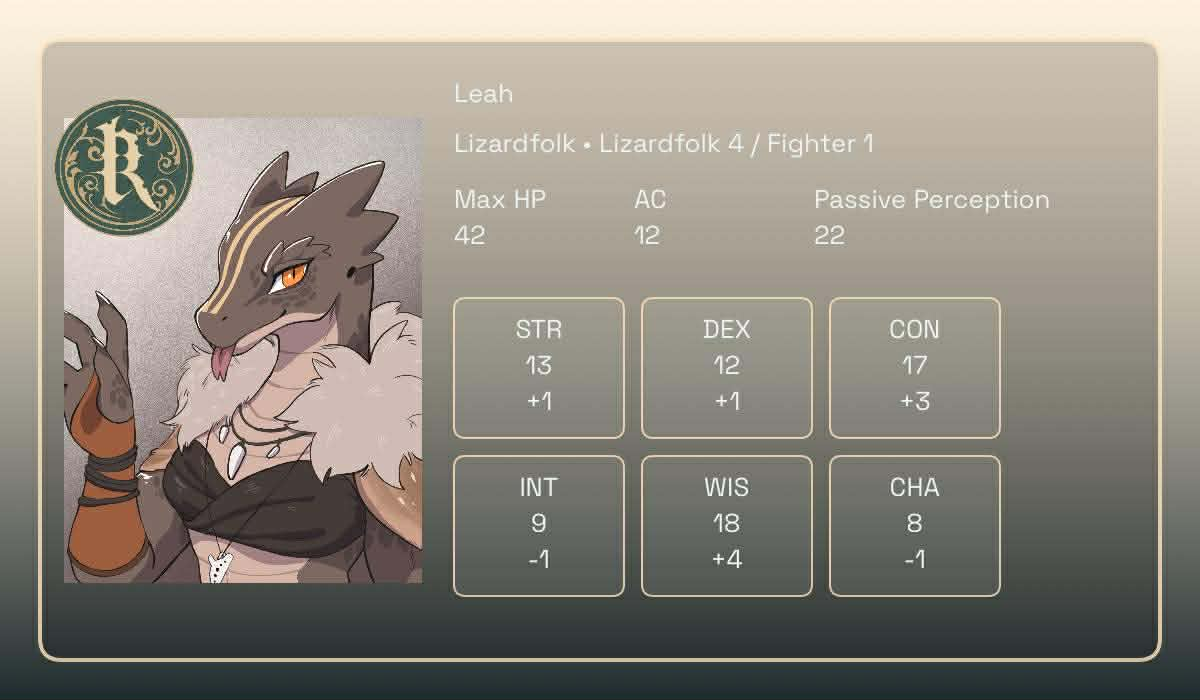
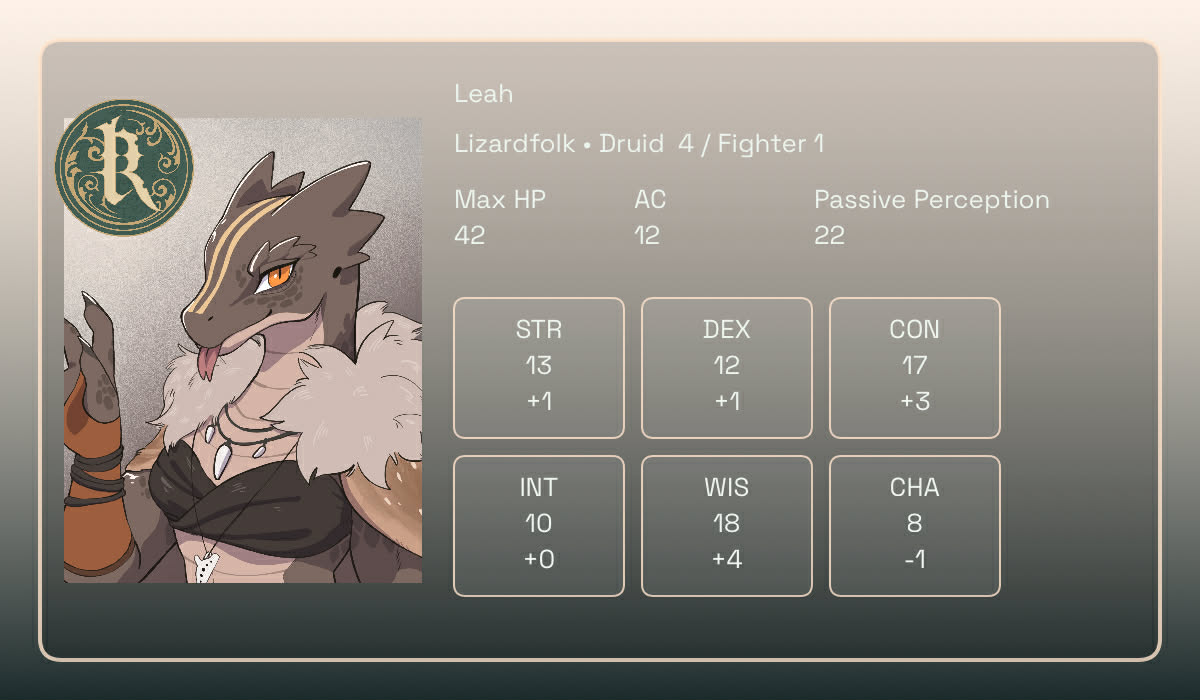
Upload Maribel and new Leah character card

Changed region(s): [[0.0308, 0.12, 0.37, 0.84], [0.4933, 0.18, 0.7092, 0.24], [0.4317, 0.72, 0.4625, 0.81]]

diff --git a/pc/index.html b/pc/index.html
@@ -213,6 +213,8 @@
       { group: "wilds", key: "dawn-light-fur", en: "wilds-dawn-light-fur-en.png", zh: "wilds-dawn-lite-fur-zh.png", titleEn: "Dawn Light Fur", titleZh: "Dawn Light Fur" },
       { group: "wilds", key: "kaname-peresia", en: "wilds-kaname-peresia-en.png", zh: "wilds-kaname-peresia-zh.png", titleEn: "Kaname Peresia", titleZh: "Kaname Peresia" },
       { group: "wilds", key: "leah", en: "wilds-leah-en.png", zh: "wilds-leah-zh.png", titleEn: "Leah", titleZh: "Leah" },
+      { group: "wilds", key: "maribel-muddlewick", en: "wilds-maribel-muddlewick-en.png", zh: "wilds-maribel-muddlewick-zh.png", titleEn: "Maribel Muddlewick", titleZh: "Maribel Muddlewick" },
+      { group: "wilds", key: "ravi", en: "wilds-ravi-en.png", zh: "wilds-ravi-zh.png", titleEn: "Ravi", titleZh: "Ravi" },
       { group: "wilds", key: "roel-lancelot", en: "wilds-roel-lancelot-en.png", zh: "wilds-roel-lancelot-zh.png", titleEn: "Roel Lancelot", titleZh: "Roel Lancelot" }
     ];
 
